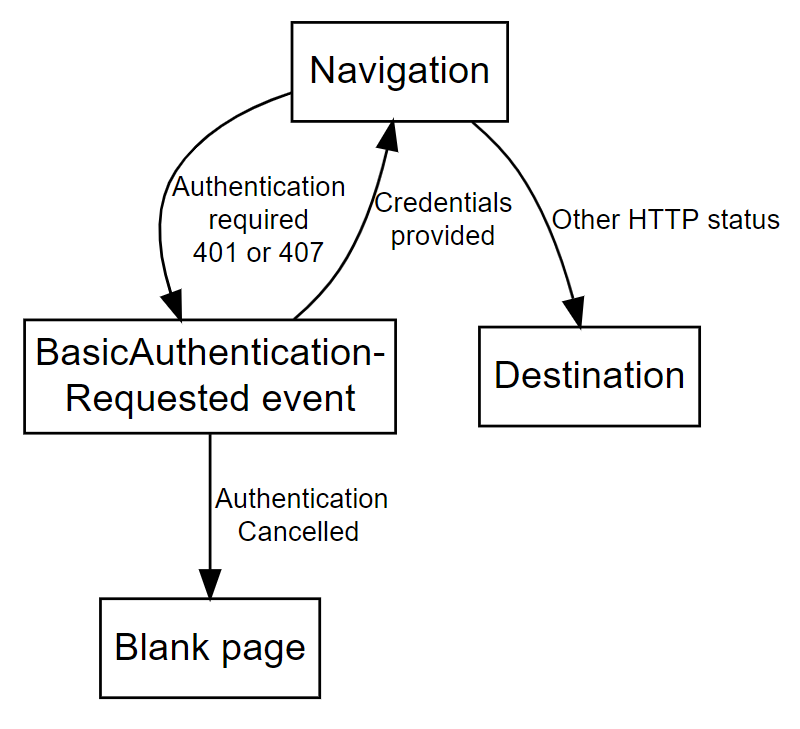
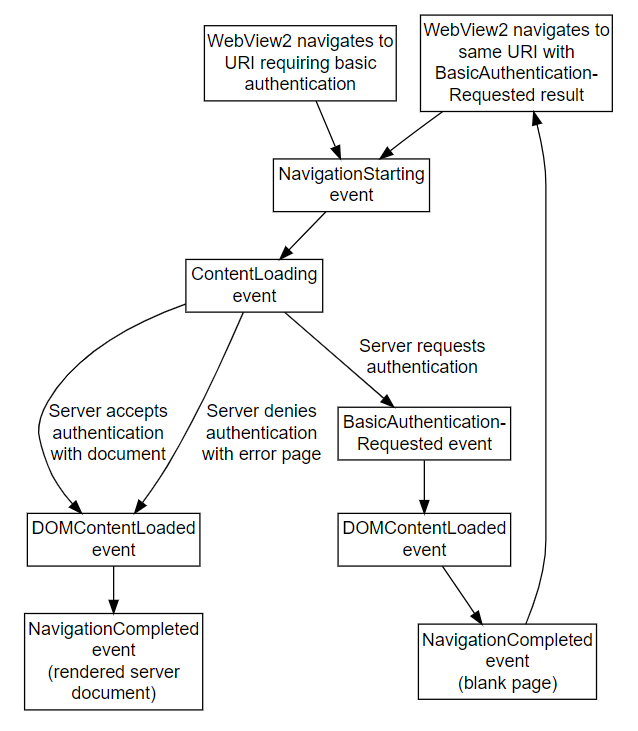
New diagram, revised draft article from working session

diff --git a/microsoft-edge/webview2/concepts/basic-authentication.md b/microsoft-edge/webview2/concepts/basic-authentication.md
@@ -11,91 +11,63 @@ ms.date: 10/28/2021
 # Basic authentication for WebView2 apps
 
 <!--
-find "todo" in this file.
-
 todo:
-Update the diagram.
 Add more example code.
-Find and resolve HTML comments.
+Find and resolve any green HTML comments-questions.
+Find "todo" in this file.
 -->
 
 _Basic authentication_ is an authentication approach that's part of the HTTP protocol.
 
-To build basic authentication into your WebView2 app:
-
-1. Do X.  Set up a, b, & c.
-
-1. Do Y.  Test for success/fail event.
-
-1. Do Z.  Handle success event.  Handle failure event.
-
-An HTTP server may require HTTP authentication.  In this case, there is a _first navigation_, which has the navigation events that are listed above.  The HTTP server returns a 401 or 407 HTTP response, and so the `NavigationCompleted` event has a corresponding failure.  The WebView2 then renders a blank page, and raise the `BasicAuthenticationRequested` event, which will potentially prompt the user for credentials.
-
-If the `BasicAuthenticationRequested` event is cancelled, then there is no subsequent navigation and the WebView2 will remain displaying the blank page.
-
-If the `BasicAuthenticationRequested` event isn't cancelled, the WebView2 will perform the initial navigation again, but this time using any provided credentials and you will again see all the same navigation events listed above.
-
-If the credentials are not accepted by the HTTP server, the navigation may fail again with 401 or 407.  In that case, we<!--todo: define "we": the WebView2 framework? the example code below, that you add to your WebView2 app?--> again raise the `BasicAuthenticationRequested` event and continue as above.
-
-Otherwise, the navigation may succeed or fail as usual, sending to your app a successul or failed `NavigationCompleted` event, along with the <!--ID of the?--> WebView2 <!-- instance?--> rendering the corresponding page.
-
-The navigations<!--nav events?--> before and after the `BasicAuthenticationRequested` event are distinct navigations<!--nav events?--> and have distinct navigation IDs.
-A _navigation_ corresponds to multiple navigation events.
-
-<!--
-todo: re-create the below image in Visio, and store the .vsd file in Teams > Files, and describe the .vsd location here.
--->
-
-<!--
-As long as this image is created using Edotor.net, keep this image-maintenance note.
-
-Source location for the image:
-
-reliable approach: paste the following code listing into https://edotor.net:
-
-```edotor
-# https://edotor.net/
-digraph g {
-   fontname="Helvetica";
-   labeljust=l;
-   node [shape="box", fontname="Sans-Serif"]
-   edge [fontname="Sans-Serif", fontsize="10"]
-
-   Navigation;
-   PromptForCreds [label="BasicAuthentication-\nRequested event"];
-   BlankPage [label="Blank page"]
-   Destination;
-
-   Navigation -> PromptForCreds [label="Authentication\nrequired\n401 or 407"]
-
-
-   PromptForCreds -> Navigation [label="Credentials\nprovided"]
-   PromptForCreds -> BlankPage [label="  Authentication\nCancelled"]
-   Navigation -> Destination [label="Other HTTP status"]
-}
-```
-
-Beware of clicking this link: it might become too long and be invalid.
-If possible, it's the URL that attempts to express the above code listing; it's the resulting URL from the above image-definition code:
-Most of this URL is wrapped by a single {} pair; watch for the presence of the ending brace:
-https://edotor.net/?engine=dot#%23%20https:%2F%2Fedotor.net%2F%0Adigraph%20g%20{%0A%09fontname%3D%22Helvetica%22%3B%0A%09labeljust%3Dl%3B%0A%09node%20[shape%3D%22box%22%2C%20fontname%3D%22Sans-Serif%22]%0A%09edge%20[fontname%3D%22Sans-Serif%22%2C%20fontsize%3D%2210%22]%0A%0A%09Navigation%3B%0A%09PromptForCreds%20[label%3D%22BasicAuthentication-%5CnRequested%20event%22]%3B%0A%09BlankPage%20[label%3D%22Blank%20page%22]%0A%09Destination%3B%0A%0A%09Navigation%20-%3E%20PromptForCreds%20[label%3D%22Authentication%5Cnrequired%5Cn401%20or%20407%22]%0A%0A%0A%09PromptForCreds%20-%3E%20Navigation%20[label%3D%22Credentials%5Cnprovided%22]%0A%09PromptForCreds%20-%3E%20BlankPage%20[label%3D%22%20%20Authentication%5CnCancelled%22]%0A%09Navigation%20-%3E%20Destination%20[label%3D%22Other%20HTTP%20status%22]%0A}
--->
-
-<!--
-todo: In the diagram, break up the Navigation box, and check /indicate the order of nav events, the basic authentication event happens in the middle of the events sequence, which is:
-
-1. `NavigationStarting` <-- nav event, include in diagram
-1. `SourceChanged` <-- omit from diagram
-1. `ContentLoading` <-- nav event, include
-1. `HistoryChanged` <-- omit
-1. `BasicAuthenticationRequested` <-- not a nav event, but include in diagram
-1. `DOMContentLoaded` <-- not a nav event, but include in diagram
-1. `NavigationCompleted`  <-- nav event include
-
-Add callouts (numbers) to each arrow to help communicate the sequence.
--->
 
 ![The Microsoft Edge WebView2 Navigation Authentication Flow.](../media/navigation-auth-graph.png)
+<!-- See "Image maintenance notes" below -->
+
+
+<!-- ====================================================================== -->
+## The order of navigation events
+
+The order of navigation events: The basic authentication event happens in the middle of the events sequence, which is:
+
+1. `NavigationStarting` - navigation event
+1. `ContentLoading` - navigation event
+1. `BasicAuthenticationRequested`
+1. `DOMContentLoaded`
+1. `NavigationCompleted` - navigation event
+
+
+<!-- ====================================================================== -->
+## Actors in the chain of events: HTTP server, WebView2 control, and host app
+
+*  The **HTTP server**.  Checks authentication and conditionally returns an error document or the requested webpage/document.
+*  The **WebView2 control** instance raises the events.  It sits between the HTTP Server & the host app.  It communicates with the HTTP Server and with the app, as an intermediary.
+*  The **host app** - sets the user name and pw on the the event's arguments (`eventsargs`) response objects.
+
+
+<!-- ====================================================================== -->
+## Detailed sequence of events end-to-end
+
+1. The host app tells the WebView2 control to navigate to a URL.  (upper left box of old diagram)
+
+1. The WebView2 control talks to the HTTP Server requesting to get the document at a specified URL.
+
+1. The HTTP Server replies to the WebView2 control saying can't get the url/doc w/o auth'n
+
+1. The WebView2 control tells host app "auth is needed" (which is the `BasicAuthnReq'd` event)
+
+1. The host app responds to that event by providing the uname & pw to the WebView2 control.
+
+1. The WebView2 control repeats: the WebView2 control again requests the URL from the HTTP Server, but this time with the authenticatin (username & password) (box of old diagram: top middle).
+
+1. The HTTP Server might not like the uname & pw, might tell wv "you can't get that url".
+
+1. Repeat the left navigation "leg" , nothing at all is different than the first time.
+
+   Now to head down the middle or right subpaths into the right-hand leg (in terms of the old diagram):
+
+1. The HTTP Server accepts the authentication credentials and returns the requested document | the HTTP Server denies the authentication and returns an error page document.
+
+1. The WebView2 control renders the returned document (marked by the `ContentLoading` event and `DOMContentLoaded` event).
 
 
 <!-- ====================================================================== -->
@@ -135,14 +107,17 @@ else {
 //! [BasicAuthenticationRequested]
 ```
 
-The following code adds to that sample, by adding the following features:
+The above code isn't realistic, because:
 
-*  Prompt the user for UI. <!-- what ui to do what?-->
+*  In practice, you'd prompt the user for the username and password rather than hardcoding them like `"user"` and `"pass"` in the listing above.
+*  The above code is synchronous, but you'd probably use asynchronous code instead.
 
+So, the following code adds to that sample, by adding the following features:
+*  Prompt the user for UI to enter their username and password.
 *  Call the `getDeferral()` method on the `event` argument.
 
 ```cpp
-// todo: Prompt the user for the xyz UI to do xyz.
+// todo: Prompt the user with a UI to enter their username and password.
 
 // todo: Call the `getDeferral()` method on the `event` argument.
 
@@ -153,3 +128,108 @@ The following code adds to that sample, by adding the following features:
 ## See also
 
 *  [HTTP authentication](https://developer.mozilla.org/en-US/docs/Web/HTTP/Authentication) at MDN.
+
+
+<!-- ====================================================================== -->
+## Draft Notes, largely based on old, dual-leg diagram
+
+To build basic authentication into your WebView2 app:
+
+1. Do X.  Set up a, b, & c.
+
+1. Do Y.  Test for success/fail event.
+
+1. Do Z.  Handle success event.  Handle failure event.
+
+An HTTP Server may require HTTP authentication.  In this case, there is a _first navigation_, which has the navigation events that are listed above.  The HTTP Server returns a 401 or 407 HTTP response, and so the `NavigationCompleted` event has a corresponding failure.  The WebView2 then renders a blank page, and raise the `BasicAuthenticationRequested` event, which will potentially prompt the user for credentials.
+
+If the `BasicAuthenticationRequested` event is cancelled, then there is no subsequent navigation and the WebView2 will remain displaying the blank page.
+
+If the `BasicAuthenticationRequested` event isn't cancelled, the WebView2 will perform the initial navigation again, but this time using any provided credentials and you will again see all the same navigation events listed above.
+
+
+Left nav'n leg of old diagram:  If the credentials are not accepted by the HTTP server, and navigation fails again with 401 or 407~~.  In that case, the `CoreWebView2` class instance again raises the `BasicAuthenticationRequested` event, and navigation continues as above.
+
+
+Right nav'n leg of old diagram:  
+If the credentials are accepted by the HTTP server, or if the HTTP Server denies authentication with an error page, the navigation may succeed or fail.
+
+
+As a part of navigation, thewebview2 will render the corresponding page, and a "success" or "failure" outcome raises a successful or failed `NavigationCompleted` event.
+
+The navigations ("leg" of events) before and after the `BasicAuthenticationRequested` event are distinct navigations ("leg" of events) and have distinct navigation IDs.
+
+nav events args has a property: the nav id.  it ties together nav events that corresp to 1 nav'n.  the nav id remains same during __ retry?  during hte next run through the event flow, a different nav ID is used.  Each time we start at navigatino starting, 
+
+
+A _navigation_ corresponds to multiple navigation events.
+
+by _navigation_, we here mean each retry, starting with the NavigationStarting box, through the NavigationCompleted box.  
+
+
+outdated wording: A new nav'n begins, with a new navID.  for this nav'n, the HTTP Server gave the WebView2 control a document.  This is the "have document" navigation.
+
+
+Notes for old diagram:
+name for the left-hand leg: the "server requested authentication" leg/navigation
+name for the right-hand leg: the "server gave the WebView2 control a document" leg/navigation (case middle: the document is the req'd doc.  case right: the doc is an error page).
+
+when reach bottom left "navcomp", that means you accomplished __  the server has asked for auth'n and we need to try the navigation again (tat will have a new navid)  , using whatever the host app gets from the events arguments response objects.
+
+when reach bottom right "navcomp", that means you accomplished __
+
+
+<!-- ====================================================================== -->
+<!-- Image maintenance notes
+
+As long as the diagram in this article is created using Edotor.net (instead of Visio), keep this image-maintenance note.
+todo in a later PR: re-create the below image in Visio, and store the .vsd file in Teams > Files, and describe the .vsd location here.
+todo in later PR: Add callouts (numbers) to each arrow to help communicate the sequence.
+
+Source location for the image:
+reliable approach: paste the following code listing into https://edotor.net:
+
+Paste this code into site, see if the resulting diagram matches the diagram in this article:
+
+```edotor
+# https://edotor.net/
+digraph g {
+    fontname="Helvetica";
+    labeljust=l;
+    node [shape="box", fontname="Sans-Serif"]
+    edge [fontname="Arial"]
+    {
+        rank = same;
+        Start [label="WebView2 navigates to\nURI requiring basic\nauthentication"]
+        Retry [label="WebView2 navigates to\nsame URI with\nBasicAuthentication-\nRequested result"]
+    }
+    NavigationStarting0 [label="NavigationStarting\nevent"];
+    ContentLoading0 [label="ContentLoading\nevent"];
+    BasicAuthenticationRequested0 [label="BasicAuthentication-\nRequested event"];
+    {
+        rank = same;
+        DOMContentLoaded0 [label="DOMContentLoaded\nevent"];
+        DOMContentLoaded1 [label="DOMContentLoaded\nevent"];
+    }
+    NavigationCompleted0 [label="NavigationCompleted\nevent\n(blank page)"];
+    NavigationCompleted1 [label="NavigationCompleted\nevent\n(rendered server\ndocument)"];
+    NavigationStarting0 -> ContentLoading0;
+    ContentLoading0 -> BasicAuthenticationRequested0 [label="Server requests\nauthentication"];
+    ContentLoading0 -> DOMContentLoaded1 [label="Server accepts\nauthentication\nwith document"];
+    ContentLoading0 -> DOMContentLoaded1 [label="Server denies\nauthentication\nwith error page"];
+    DOMContentLoaded1 -> NavigationCompleted1;
+    BasicAuthenticationRequested0 -> DOMContentLoaded0 -> NavigationCompleted0;
+    BasicAuthenticationRequested0;
+    Start -> NavigationStarting0;
+    NavigationStarting0 -> Retry [style=invis];
+    NavigationCompleted0 -> Retry;
+    Retry -> NavigationStarting0;
+}
+```
+
+Beware of clicking this link: it might become too long and be invalid.
+Try this URL, compare to the .png diagram:
+If possible, it's the URL that attempts to express the above code listing; it's the resulting URL from the above image-definition code:
+https://edotor.net/?
+https://edotor.net/?engine=dot#digraph%20g%20%7B%0A%20%20%20%20fontname%3D%22Helvetica%22%3B%0A%20%20%20%20labeljust%3Dl%3B%0A%20%20%20%20node%20%5Bshape%3D%22box%22%2C%20fontname%3D%22Sans-Serif%22%5D%0A%20%20%20%20edge%20%5Bfontname%3D%22Arial%22%5D%0A%20%20%20%20%7B%0A%20%20%20%20%20%20%20%20rank%20%3D%20same%3B%0A%20%20%20%20%20%20%20%20Start%20%5Blabel%3D%22WebView2%20navigates%20to%5CnURI%20requiring%20basic%5Cnauthentication%22%5D%0A%20%20%20%20%20%20%20%20Retry%20%5Blabel%3D%22WebView2%20navigates%20to%5Cnsame%20URI%20with%5CnBasicAuthentication-%5CnRequested%20result%22%5D%0A%20%20%20%20%7D%0A%20%20%20%20NavigationStarting0%20%5Blabel%3D%22NavigationStarting%5Cnevent%22%5D%3B%0A%20%20%20%20ContentLoading0%20%5Blabel%3D%22ContentLoading%5Cnevent%22%5D%3B%0A%20%20%20%20BasicAuthenticationRequested0%20%5Blabel%3D%22BasicAuthentication-%5CnRequested%20event%22%5D%3B%0A%20%20%20%20%7B%0A%20%20%20%20%20%20%20%20rank%20%3D%20same%3B%0A%20%20%20%20%20%20%20%20DOMContentLoaded0%20%5Blabel%3D%22DOMContentLoaded%5Cnevent%22%5D%3B%0A%20%20%20%20%20%20%20%20DOMContentLoaded1%20%5Blabel%3D%22DOMContentLoaded%5Cnevent%22%5D%3B%0A%20%20%20%20%7D%0A%20%20%20%20NavigationCompleted0%20%5Blabel%3D%22NavigationCompleted%5Cnevent%5Cn(blank%20page)%22%5D%3B%0A%20%20%20%20NavigationCompleted1%20%5Blabel%3D%22NavigationCompleted%5Cnevent%5Cn(rendered%20server%5Cndocument)%22%5D%3B%0A%20%20%20%20NavigationStarting0%20-%3E%20ContentLoading0%3B%0A%20%20%20%20ContentLoading0%20-%3E%20BasicAuthenticationRequested0%20%5Blabel%3D%22Server%20requests%5Cnauthentication%22%5D%3B%0A%20%20%20%20ContentLoading0%20-%3E%20DOMContentLoaded1%20%5Blabel%3D%22Server%20accepts%5Cnauthentication%5Cnwith%20document%22%5D%3B%0A%20%20%20%20ContentLoading0%20-%3E%20DOMContentLoaded1%20%5Blabel%3D%22Server%20denies%5Cnauthentication%5Cnwith%20error%20page%22%5D%3B%0A%20%20%20%20DOMContentLoaded1%20-%3E%20NavigationCompleted1%3B%0A%20%20%20%20BasicAuthenticationRequested0%20-%3E%20DOMContentLoaded0%20-%3E%20NavigationCompleted0%3B%0A%20%20%20%20BasicAuthenticationRequested0%3B%0A%20%20%20%20Start%20-%3E%20NavigationStarting0%3B%0A%20%20%20%20NavigationStarting0%20-%3E%20Retry%20%5Bstyle%3Dinvis%5D%3B%0A%20%20%20%20NavigationCompleted0%20-%3E%20Retry%3B%0A%20%20%20%20Retry%20-%3E%20NavigationStarting0%3B%0A%7D%0A
+-->
